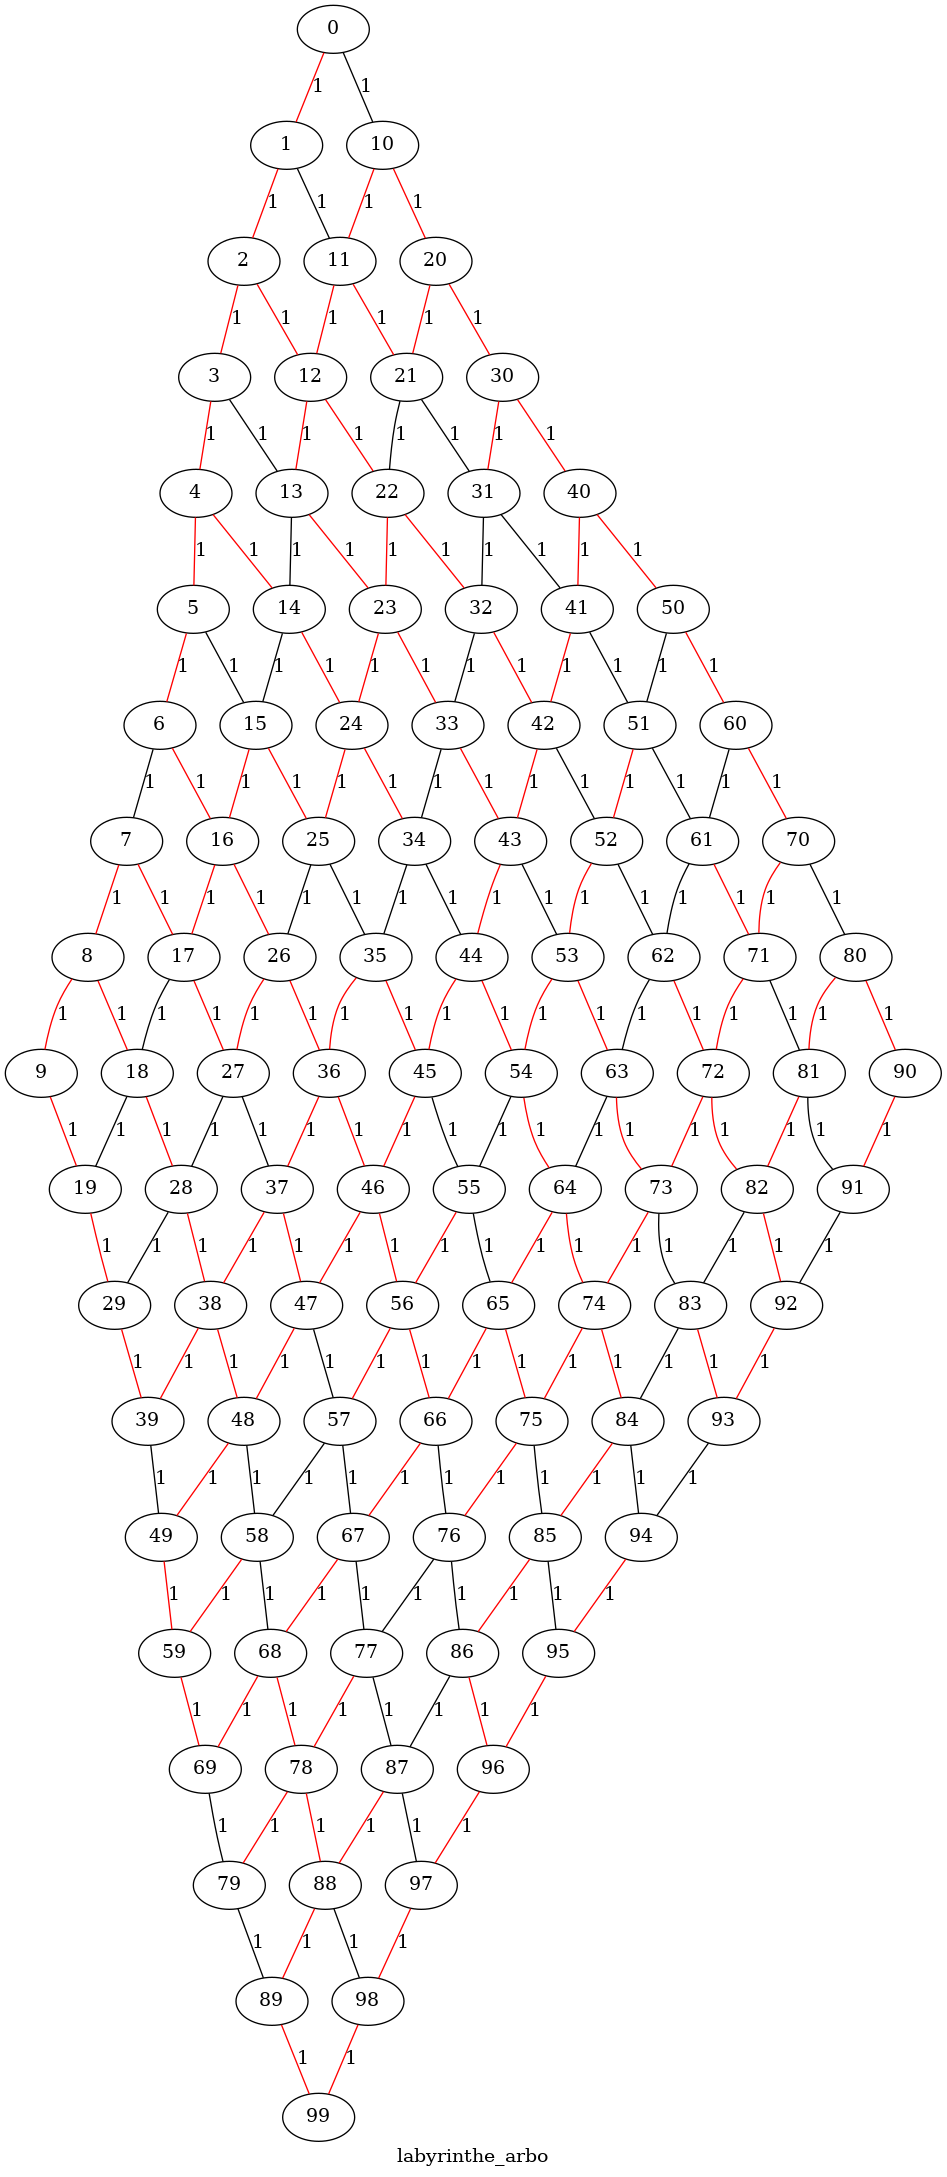
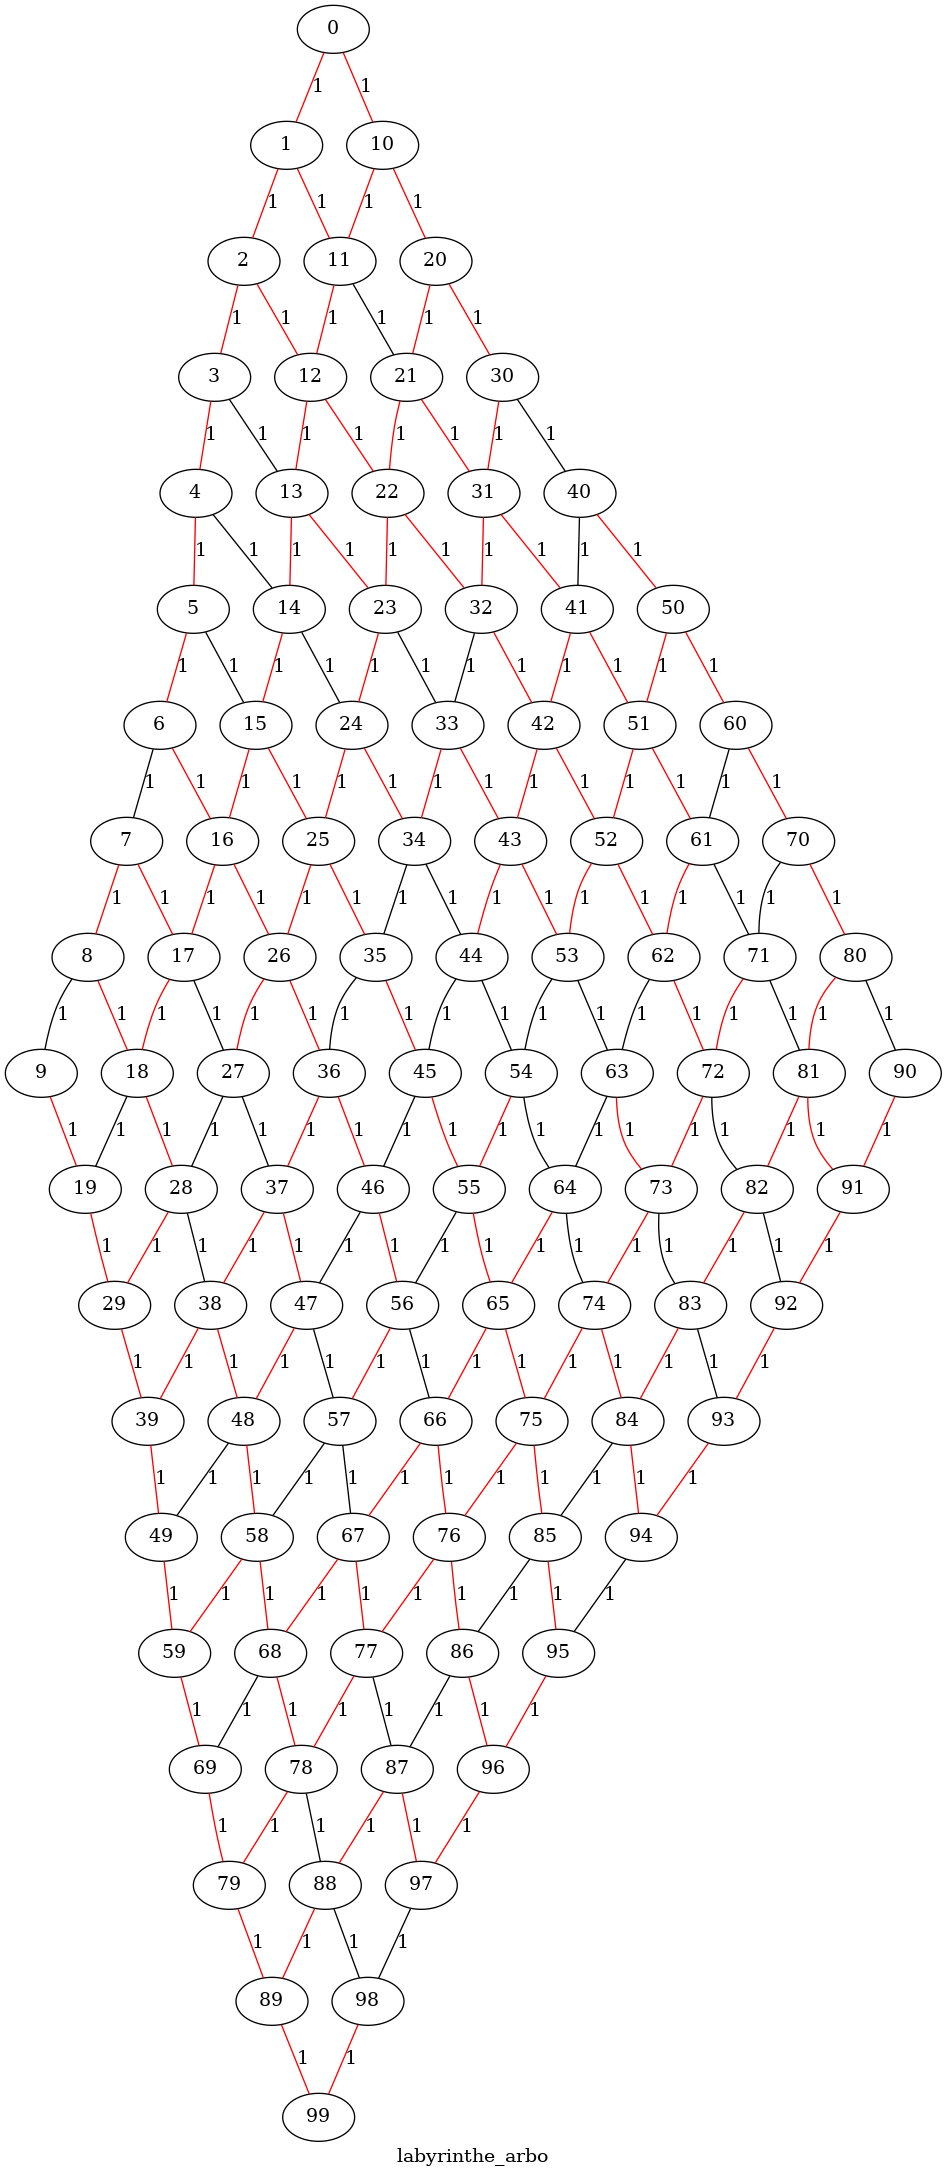
implementation du labyrinthe non arborescent

diff --git a/partition_labyrinthes/src/labyrintheVue.c b/partition_labyrinthes/src/labyrintheVue.c
@@ -66,17 +66,17 @@ int main(int argc, char const *argv[])
     // // TRAITEMENT
 
     SDL_Rect dest = {0};
-    int n = 10, tailleLabyrintheCouvrant, m;
+    int n = 20, tailleLabyrintheCouvrant, m;
     couples_graphe_t graph;
     arete_t* labyrintheCouvrant;
     int** grille;
 
     m=n;
     genererGrapheLabyrinthe(&graph, n);
-    labyrintheCouvrant = arbreCouvrantPoidsMin(graph, &tailleLabyrintheCouvrant);
+    //labyrintheCouvrant = arbreCouvrantPoidsMin(graph, &tailleLabyrintheCouvrant);
+    labyrintheCouvrant = grapheLaby(graph, &tailleLabyrintheCouvrant, 0.7);
     grille = arbreCouvrantToMatrice(labyrintheCouvrant, tailleLabyrintheCouvrant, n);
-    displayGrid(grille, n, n);
-    drawCouplesGraph(graph, "labyrinthe_arbo", labyrintheCouvrant, tailleLabyrintheCouvrant);
+    //drawCouplesGraph(graph, "labyrinthe_arbo", labyrintheCouvrant, tailleLabyrintheCouvrant);
 
     SDL_GetWindowSize(window, &positionLab.w, &positionLab.h);
     dimensionTile(&tile, positionLab, n, m);

diff --git a/partition_labyrinthes/src/labyrinthe_non_arbo.c b/partition_labyrinthes/src/labyrinthe_non_arbo.c
@@ -12,14 +12,15 @@ arete_t * grapheLaby(couples_graphe_t graph, int * tailleListe, float densite) {
     listeAretes = (arete_t *)malloc(sizeof(arete_t) * graph.nbAretes);
     if(listeAretes)
     {
-        ordonnerAretesCroissant(&graph);
+        //ordonnerAretesCroissant(&graph);
+        fisherYate(&graph);
         partition = creer(graph.nbNoeuds);
 
         for(i = 0; i < graph.nbAretes; i++)
         {
             elem1 = graph.aretes[i].noeudDeb;
             elem2 = graph.aretes[i].noeudFin;
-            if(classeMere(elem1, partition) != classeMere(elem2, partition) || (float) rand() / (float) RAND_MAX < densite)
+            if(classeMere(elem1, partition) != classeMere(elem2, partition) || (float) rand() / (float) RAND_MAX > densite)
             {   
                 fusion(partition, elem1, elem2);
                 listeAretes[j] = graph.aretes[i];

diff --git a/partition_labyrinthes/src/labyrintheVue.h b/partition_labyrinthes/src/labyrintheVue.h
@@ -10,6 +10,7 @@
 #include "kruskal.h"
 #include "graphviz.h"
 #include "matrice.h"
+#include "labyrinthe_non_arbo.h"
 
 // Type direction (pour savoir quels murs placer)
 typedef enum
